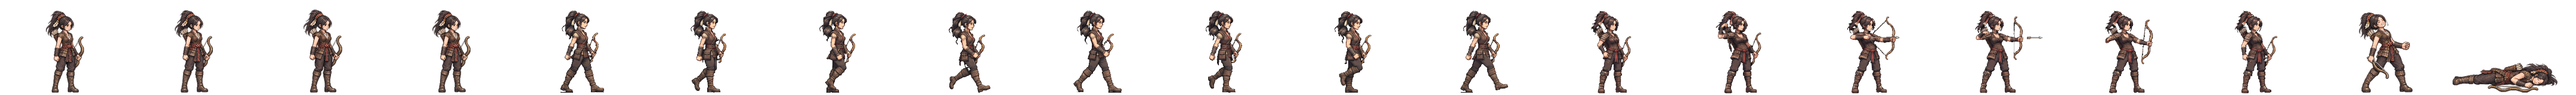
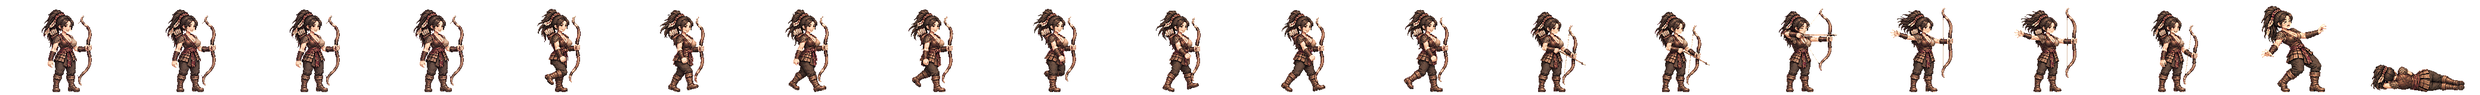
가락 다나 새 전투 띠를 게임에 넣음(서기·걷기·활 쏘기 네 칸·쓰러짐·깃털 머리 넘기기)
띠 검사 합격 · 활 길이 서기와 같음 · 활 끝 칸 키 137 ↔ 서기 138 · 쓰러짐 첫 칸 145 로 조금 큼

Claude-Session: https://claude.ai/code/session_01TRiuN7s6aDfSnaHxrkctmU

diff --git a/src/realm/data/spritePx.ts b/src/realm/data/spritePx.ts
@@ -1,3 +1,3 @@
 /** public/realm/anim-px/manifest.json 의 사본 — tools/sprite-normalize.mjs 가 만든다 (손으로 고치지 말 것). 칸 [가로, 세로] · feet = 발 줄(칸 위에서 y) · bodyPx = 서 있는 몸 키 */
 import { expandManifest } from './sprite-manifest.ts'
-export const SPRITE_PX: Readonly<Record<string, { readonly cell: readonly [number, number]; readonly feet: number; readonly bodyPx: number; readonly kind: 'general' | 'soldier' | 'folk' | 'crowd'; readonly cells: number }>> = expandManifest<{ readonly cell: readonly [number, number]; readonly feet: number; readonly bodyPx: number; readonly kind: 'general' | 'soldier' | 'folk' | 'crowd'; readonly cells: number }>([{"cell":[166,128],"feet":126,"bodyPx":124,"kind":"soldier","cells":20},{"cell":[116,128],"feet":126,"bodyPx":117,"kind":"soldier","cells":20},{"cell":[127,128],"feet":126,"bodyPx":116,"kind":"soldier","cells":20},{"cell":[269,128],"feet":126,"bodyPx":126,"kind":"soldier","cells":20},{"cell":[503,128],"feet":126,"bodyPx":127,"kind":"soldier","cells":20},{"cell":[614,128],"feet":126,"bodyPx":126,"kind":"soldier","cells":20},{"cell":[200,160],"feet":156,"bodyPx":138,"kind":"general","cells":20},{"cell":[208,160],"feet":155,"bodyPx":138,"kind":"general","cells":20},{"cell":[208,160],"feet":154,"bodyPx":138,"kind":"general","cells":20},{"cell":[304,160],"feet":155,"bodyPx":135,"kind":"general","cells":20},{"cell":[224,160],"feet":156,"bodyPx":139,"kind":"general","cells":20},{"cell":[184,160],"feet":156,"bodyPx":138,"kind":"general","cells":20},{"cell":[208,160],"feet":154,"bodyPx":136,"kind":"general","cells":20},{"cell":[240,160],"feet":156,"bodyPx":138,"kind":"general","cells":20},{"cell":[232,160],"feet":156,"bodyPx":138,"kind":"general","cells":20},{"cell":[208,160],"feet":156,"bodyPx":138,"kind":"general","cells":20},{"cell":[168,160],"feet":156,"bodyPx":138,"kind":"general","cells":20},{"cell":[192,160],"feet":156,"bodyPx":138,"kind":"general","cells":20},{"cell":[168,160],"feet":156,"bodyPx":124,"kind":"general","cells":20},{"cell":[216,160],"feet":156,"bodyPx":130,"kind":"general","cells":20},{"cell":[200,160],"feet":156,"bodyPx":116,"kind":"general","cells":20},{"cell":[200,160],"feet":156,"bodyPx":135,"kind":"general","cells":20},{"cell":[280,160],"feet":156,"bodyPx":138,"kind":"general","cells":20},{"cell":[232,160],"feet":155,"bodyPx":138,"kind":"general","cells":20},{"cell":[232,160],"feet":156,"bodyPx":134,"kind":"general","cells":20},{"cell":[144,160],"feet":156,"bodyPx":70,"kind":"general","cells":20},{"cell":[208,160],"feet":156,"bodyPx":70,"kind":"general","cells":20},{"cell":[192,160],"feet":156,"bodyPx":70,"kind":"general","cells":20},{"cell":[240,160],"feet":155,"bodyPx":138,"kind":"general","cells":20},{"cell":[160,160],"feet":156,"bodyPx":135,"kind":"general","cells":20},{"cell":[192,160],"feet":156,"bodyPx":128,"kind":"general","cells":20},{"cell":[224,160],"feet":155,"bodyPx":138,"kind":"general","cells":20},{"cell":[232,160],"feet":156,"bodyPx":139,"kind":"general","cells":20},{"cell":[216,160],"feet":156,"bodyPx":138,"kind":"general","cells":20},{"cell":[208,160],"feet":156,"bodyPx":134,"kind":"general","cells":20},{"cell":[176,160],"feet":156,"bodyPx":130,"kind":"general","cells":20},{"cell":[248,160],"feet":156,"bodyPx":138,"kind":"general","cells":20},{"cell":[248,160],"feet":155,"bodyPx":138,"kind":"general","cells":20},{"cell":[192,160],"feet":155,"bodyPx":138,"kind":"general","cells":20},{"cell":[192,160],"feet":156,"bodyPx":124,"kind":"general","cells":20},{"cell":[208,160],"feet":154,"bodyPx":131,"kind":"general","cells":20},{"cell":[256,160],"feet":156,"bodyPx":138,"kind":"general","cells":20},{"cell":[232,160],"feet":156,"bodyPx":73,"kind":"general","cells":20},{"cell":[256,160],"feet":155,"bodyPx":138,"kind":"general","cells":20},{"cell":[264,160],"feet":156,"bodyPx":138,"kind":"general","cells":20},{"cell":[224,160],"feet":156,"bodyPx":138,"kind":"general","cells":20},{"cell":[224,160],"feet":156,"bodyPx":128,"kind":"general","cells":20},{"cell":[176,160],"feet":156,"bodyPx":129,"kind":"general","cells":20},{"cell":[208,160],"feet":154,"bodyPx":139,"kind":"general","cells":20},{"cell":[208,160],"feet":156,"bodyPx":132,"kind":"general","cells":20},{"cell":[216,160],"feet":155,"bodyPx":138,"kind":"general","cells":20},{"cell":[184,160],"feet":156,"bodyPx":122,"kind":"general","cells":20},{"cell":[176,160],"feet":156,"bodyPx":138,"kind":"general","cells":20},{"cell":[280,160],"feet":155,"bodyPx":133,"kind":"general","cells":20},{"cell":[176,160],"feet":156,"bodyPx":70,"kind":"general","cells":20},{"cell":[186,128],"feet":126,"bodyPx":127,"kind":"soldier","cells":20},{"cell":[298,128],"feet":126,"bodyPx":126,"kind":"soldier","cells":20},{"cell":[82,128],"feet":126,"bodyPx":114,"kind":"folk","cells":8},{"cell":[134,128],"feet":126,"bodyPx":119,"kind":"soldier","cells":20},{"cell":[380,128],"feet":126,"bodyPx":124,"kind":"soldier","cells":20},{"cell":[114,128],"feet":126,"bodyPx":115,"kind":"soldier","cells":20},{"cell":[122,128],"feet":126,"bodyPx":114,"kind":"soldier","cells":20},{"cell":[254,128],"feet":126,"bodyPx":128,"kind":"soldier","cells":20},{"cell":[438,128],"feet":126,"bodyPx":126,"kind":"soldier","cells":20},{"cell":[88,128],"feet":126,"bodyPx":113,"kind":"folk","cells":8},{"cell":[100,128],"feet":126,"bodyPx":115,"kind":"folk","cells":8},{"cell":[108,128],"feet":126,"bodyPx":115,"kind":"folk","cells":8},{"cell":[63,128],"feet":126,"bodyPx":113,"kind":"folk","cells":8},{"cell":[69,96],"feet":96,"bodyPx":96,"kind":"crowd","cells":1},{"cell":[54,96],"feet":96,"bodyPx":96,"kind":"crowd","cells":1},{"cell":[47,96],"feet":96,"bodyPx":96,"kind":"crowd","cells":1},{"cell":[49,96],"feet":96,"bodyPx":96,"kind":"crowd","cells":1},{"cell":[57,96],"feet":96,"bodyPx":96,"kind":"crowd","cells":1},{"cell":[55,96],"feet":96,"bodyPx":96,"kind":"crowd","cells":1},{"cell":[45,96],"feet":96,"bodyPx":96,"kind":"crowd","cells":1},{"cell":[53,96],"feet":96,"bodyPx":96,"kind":"crowd","cells":1},{"cell":[64,96],"feet":96,"bodyPx":96,"kind":"crowd","cells":1},{"cell":[184,160],"feet":156,"bodyPx":124,"kind":"general","cells":20},{"cell":[184,160],"feet":156,"bodyPx":134,"kind":"general","cells":20},{"cell":[224,160],"feet":156,"bodyPx":133,"kind":"general","cells":20},{"cell":[192,160],"feet":156,"bodyPx":135,"kind":"general","cells":20},{"cell":[184,160],"feet":156,"bodyPx":137,"kind":"general","cells":20},{"cell":[216,160],"feet":156,"bodyPx":134,"kind":"general","cells":20},{"cell":[216,160],"feet":156,"bodyPx":132,"kind":"general","cells":20},{"cell":[288,160],"feet":156,"bodyPx":138,"kind":"general","cells":20},{"cell":[192,160],"feet":156,"bodyPx":118,"kind":"general","cells":20},{"cell":[192,160],"feet":156,"bodyPx":134,"kind":"general","cells":20},{"cell":[192,160],"feet":157,"bodyPx":139,"kind":"general","cells":20},{"cell":[184,160],"feet":156,"bodyPx":128,"kind":"general","cells":20},{"cell":[240,160],"feet":156,"bodyPx":128,"kind":"general","cells":20},{"cell":[184,160],"feet":156,"bodyPx":132,"kind":"general","cells":20},{"cell":[208,160],"feet":156,"bodyPx":123,"kind":"general","cells":20},{"cell":[208,160],"feet":154,"bodyPx":137,"kind":"general","cells":20},{"cell":[176,160],"feet":156,"bodyPx":116,"kind":"general","cells":20},{"cell":[272,160],"feet":156,"bodyPx":138,"kind":"general","cells":20},{"cell":[176,160],"feet":156,"bodyPx":122,"kind":"general","cells":20},{"cell":[232,160],"feet":156,"bodyPx":127,"kind":"general","cells":20},{"cell":[176,160],"feet":156,"bodyPx":137,"kind":"general","cells":20},{"cell":[184,160],"feet":156,"bodyPx":133,"kind":"general","cells":20}],[["axe",0],["bandit-chief",1],["bandit-club",2],["boat",3],["bow",4],["crossbow",5],["gen-adogan",6],["gen-alpyeong",7],["gen-ara",8],["gen-areum",8],["gen-aryeong",9],["gen-bakdal",6],["gen-baram",10],["gen-bdanbi",11],["gen-beom",12],["gen-beombal",11],["gen-beomi",13],["gen-bira",14],["gen-biryu",15],["gen-budeul",16],["gen-byeol",17],["gen-daemusin",18],["gen-daeso",19],["gen-dallae2",11],["gen-dalli",11],["gen-damul",20],["gen-danbi",15],["gen-dangung",17],["gen-darae",21],["gen-dokmudeom",7],["gen-duman",22],["gen-eomni",23],["gen-eureum",24],["gen-g-bow",25],["gen-g-spear",26],["gen-g-sword",27],["gen-gaennae",6],["gen-gamsil",28],["gen-gaon",29],["gen-geota",15],["gen-geumbawi",11],["gen-geumha",30],["gen-goeun",15],["gen-gom",31],["gen-gomok",15],["gen-gureum",28],["gen-guryema",17],["gen-gwaeyu",14],["gen-haebi",8],["gen-haedal",6],["gen-haesol",32],["gen-halla",7],["gen-heo",8],["gen-hneoul",11],["gen-hogong",33],["gen-hojin",15],["gen-horselord",34],["gen-hwalmi",35],["gen-hyeokgeose",17],["gen-hyeopbo",6],["gen-irang",15],["gen-jibaekho",36],["gen-jinha",37],["gen-jita",38],["gen-jumong",39],["gen-keundol",7],["gen-maehwa",40],["gen-maenun",17],["gen-malgalgi",41],["gen-mari",13],["gen-maro",36],["gen-maryeo",15],["gen-mdallae",32],["gen-mir",6],["gen-mount",42],["gen-mulbeom",43],["gen-mulsae",33],["gen-musoe",33],["gen-noeul",8],["gen-nuri",44],["gen-ocheongan",45],["gen-odi",8],["gen-odogan",6],["gen-ogan",17],["gen-oi",46],["gen-olddaeso",24],["gen-onjo",47],["gen-pidogan",15],["gen-sagong",48],["gen-sdallae",6],["gen-sincheongan",33],["gen-singwigan",33],["gen-sinneoul",8],["gen-sobeol",23],["gen-soebi",6],["gen-soebo",49],["gen-soenun",36],["gen-sogeumbi",50],["gen-songbi",45],["gen-songyang",51],["gen-sori",52],["gen-soseono",53],["gen-suro",17],["gen-tahae",6],["gen-tneoul",8],["gen-w-bow",25],["gen-w-spear",54],["gen-waechief",15],["gen-wan",33],["gen-yeodogan",15],["gen-yucheongan",15],["gen-yusugan",36],["horse",55],["marine",56],["migrant",57],["militia",58],["pike",59],["pirate-captain",60],["pirate-sword",61],["shield",62],["spear",63],["villager-builder",64],["villager-farmer",65],["villager-porter",66],["villager-woman",67],["crowd-b1",68],["crowd-b2",69],["crowd-b3",70],["crowd-b4",71],["crowd-b5",72],["crowd-b6",73],["crowd-f1",68],["crowd-f2",73],["crowd-f3",74],["crowd-f4",75],["crowd-f5",68],["crowd-f6",76],["gen-dalbit",15],["gen-base-g-07-drunk-warrior",17],["gen-base-g-40-anya-adan",15],["gen-base-w-13-young-archer",8],["gen-base-g-03-sea-trader",13],["gen-base-w-10-pirate-captain",48],["gen-base-w-64-miri-dallae",48],["gen-base-g-41-goja-bau",13],["gen-base-g-42-dokro-garam",44],["gen-base-g-09-farmer-conscript",33],["gen-base-w-02-goguryeo-lady",33],["gen-base-w-17-mahan-pearl-diver",8],["gen-base-g-17-saro-isageum",49],["gen-base-g-18-daegaya-king",77],["gen-base-g-35-dabeol-dalgu",15],["gen-base-g-19-sabeol-veteran",33],["gen-base-w-23-usisan-whale-queen",8],["gen-base-g-36-gammun-gamdol",45],["gen-base-g-20-samul-sea-lord",41],["gen-base-g-37-eumjeup-jeup",11],["gen-base-g-38-chopal-palmae",17],["gen-base-w-75-daegaya-soemoe",17],["gen-base-g-45-dabeol-deulgae",11],["gen-base-g-04-jinhan-giant",15],["gen-base-g-08-veteran",15],["gen-base-w-18-jinhan-salt-widow",15],["gen-base-w-12-court-dancer",78],["gen-base-w-83-gyeonji-beodeul",79],["gen-base-w-05-baekje-queen",80],["gen-base-w-21-baekje-court-dancer",11],["gen-base-g-01-master-smith",81],["gen-base-g-93-jomun-solgae",35],["gen-base-g-57-bihwa-neup",13],["gen-base-w-72-eumjeup-beol",8],["gen-base-w-102-garak-dana",33],["gen-base-g-68-baekje-onnuri",15],["gen-base-w-27-mokji-jinha",6],["gen-base-g-22-ungcheon-gomnae",6],["gen-base-g-23-sangdang-soedal",15],["gen-base-g-24-wansan-onsan",6],["gen-base-g-25-balla-keunmoe",33],["gen-base-g-61-heomcheuk-bawi",33],["gen-base-g-88-wander-soeul",45],["gen-base-w-14-feast-spy",6],["gen-base-g-12-silla-youth",82],["gen-base-w-08-mahan-warrior",8],["gen-base-g-62-beonye-hanul",13],["gen-base-g-63-heomcheuk-beogeum",15],["gen-base-g-84-wander-seoneul",15],["gen-base-w-50-siljik-mulga",33],["gen-base-g-46-uga-nureongso",33],["gen-base-w-80-usan-gangchi",13],["gen-base-g-47-guga-sanyanggae",33],["gen-base-w-76-gampyeong-baetsagong",8],["gen-base-g-05-mahan-chieftain",83],["gen-base-g-58-usan-uhae",15],["gen-base-g-27-maek-maekdol",15],["gen-base-w-53-hwanna-gabi",16],["gen-base-w-29-golpo-janmul",36],["gen-base-g-53-baekje-haeru",6],["gen-base-w-71-yeonna-neoul",13],["gen-base-w-79-yangmaek-solmae",33],["gen-base-w-34-chopal-deulme",8],["gen-base-g-44-maga-malgup",84],["gen-base-w-31-dabeol-dalbit",48],["gen-base-g-51-biryuna-mulgyeol",45],["gen-base-g-48-gwanna-musoe",15],["gen-base-g-32-uga-sodu",14],["gen-base-g-49-goguryeo-sona",85],["gen-base-g-30-gwanna-soemoe",45],["gen-base-g-52-tamna-oreum",11],["gen-base-g-29-yeonna-myeongsol",39],["gen-base-w-56-dongokjeo-sogeum",86],["gen-base-g-54-mokji-mahan",14],["gen-base-g-33-jeoga-metdol",17],["gen-base-w-36-baekje-maena",17],["gen-base-w-38-sangdang-bulmae",6],["gen-base-w-39-gosaburi-galmae",87],["gen-base-w-40-mujin-munui",49],["gen-base-w-41-hwanna-beodeul",88],["gen-base-w-43-uga-nuri",41],["gen-base-w-45-tamna-oreumbi",11],["gen-base-g-60-golbeol-golgae",11],["gen-base-g-61-apdok-ap",33],["gen-base-g-62-gammun-gamnamu",6],["gen-base-g-63-chopal-yeoul",36],["gen-base-g-64-michuhol-sogeumkkun",13],["gen-base-g-65-sangdang-soemangchi",45],["gen-base-g-66-geonma-malbalgup",89],["gen-base-g-67-gosaburi-buri",90],["gen-base-g-68-mujin-bitgoeul",11],["gen-base-g-69-goryong-yong",45],["gen-base-g-70-siljik-pado",13],["gen-base-w-81-byeokjin-byeolbit",14],["gen-base-w-46-geonma-maru",36],["gen-base-w-48-mujin-mudeung",13],["gen-base-g-26-gampyeong-gaetbeol",14],["gen-base-g-60-eupcha-hangyeol",91],["gen-base-g-15-shaman-man",33],["gen-base-g-85-wander-ure",36],["gen-base-g-43-hwanna-amnok",15],["gen-base-g-50-bullae-gwaha",80],["gen-base-g-55-saro-bakdal",15],["gen-base-g-56-haseulla-gwahama",6],["gen-base-w-06-buyeo-huntress",92],["gen-base-w-22-dongye-tiger-huntress",8],["gen-base-w-25-bihwa-priestess",33],["gen-base-w-24-apdok-queen",11],["gen-base-w-61-iseo-sinae",15],["gen-base-w-26-iseo-tomboy-general",8],["gen-base-g-59-yangmaek-maekson",93],["gen-aw1-haebi",45],["gen-aw1-soseono",94],["gen-aw1-gamsil",11],["gen-aw1-mir",52],["gen-aw1-dangung",6],["gen-aw1-ara",45],["gen-aw1-jumong",95],["gen-aw1-onjo",96],["gen-aw1-base-w-83-gyeonji-beodeul",17],["gen-aw1-heo",44],["gen-aw1-base-g-38-chopal-palmae",6],["gen-aw1-base-w-25-bihwa-priestess",78],["gen-aw1-sori",16],["gen-aw1-gomok",6],["gen-aw1-irang",17],["gen-aw1-budeul",16],["gen-aw1-gom",13],["gen-aw1-sdallae",6],["gen-aw1-base-w-13-young-archer",6],["gen-aw1-base-w-36-baekje-maena",97],["gen-aw1-base-g-09-farmer-conscript",44],["gen-aw1-base-w-02-goguryeo-lady",98],["gen-aw1-haedal",11],["gen-aw1-hogong",6],["gen-aw1-maehwa",52],["gen-aw1-base-w-06-buyeo-huntress",14],["gen-aw1-base-w-08-mahan-warrior",45],["gen-aw1-base-w-29-golpo-janmul",45],["gen-aw1-base-w-31-dabeol-dalbit",17],["gen-aw1-base-w-38-sangdang-bulmae",16],["gen-aw1-bira",33],["gen-aw1-base-w-53-hwanna-gabi",16],["gen-aw1-base-w-56-dongokjeo-sogeum",52],["gen-aw1-base-w-72-eumjeup-beol",17],["gen-aw1-bdanbi",16],["gen-aw1-beom",11],["gen-aw1-beombal",11],["gen-aw1-byeol",17],["gen-aw1-dalli",52],["gen-aw1-malgalgi",36],["gen-aw1-sincheongan",33]])
+export const SPRITE_PX: Readonly<Record<string, { readonly cell: readonly [number, number]; readonly feet: number; readonly bodyPx: number; readonly kind: 'general' | 'soldier' | 'folk' | 'crowd'; readonly cells: number }>> = expandManifest<{ readonly cell: readonly [number, number]; readonly feet: number; readonly bodyPx: number; readonly kind: 'general' | 'soldier' | 'folk' | 'crowd'; readonly cells: number }>([{"cell":[166,128],"feet":126,"bodyPx":124,"kind":"soldier","cells":20},{"cell":[116,128],"feet":126,"bodyPx":117,"kind":"soldier","cells":20},{"cell":[127,128],"feet":126,"bodyPx":116,"kind":"soldier","cells":20},{"cell":[269,128],"feet":126,"bodyPx":126,"kind":"soldier","cells":20},{"cell":[503,128],"feet":126,"bodyPx":127,"kind":"soldier","cells":20},{"cell":[614,128],"feet":126,"bodyPx":126,"kind":"soldier","cells":20},{"cell":[200,160],"feet":156,"bodyPx":138,"kind":"general","cells":20},{"cell":[208,160],"feet":155,"bodyPx":138,"kind":"general","cells":20},{"cell":[208,160],"feet":154,"bodyPx":138,"kind":"general","cells":20},{"cell":[304,160],"feet":155,"bodyPx":135,"kind":"general","cells":20},{"cell":[224,160],"feet":156,"bodyPx":139,"kind":"general","cells":20},{"cell":[184,160],"feet":156,"bodyPx":138,"kind":"general","cells":20},{"cell":[208,160],"feet":154,"bodyPx":136,"kind":"general","cells":20},{"cell":[240,160],"feet":156,"bodyPx":138,"kind":"general","cells":20},{"cell":[232,160],"feet":156,"bodyPx":138,"kind":"general","cells":20},{"cell":[208,160],"feet":156,"bodyPx":138,"kind":"general","cells":20},{"cell":[168,160],"feet":156,"bodyPx":138,"kind":"general","cells":20},{"cell":[192,160],"feet":156,"bodyPx":138,"kind":"general","cells":20},{"cell":[168,160],"feet":156,"bodyPx":124,"kind":"general","cells":20},{"cell":[216,160],"feet":156,"bodyPx":130,"kind":"general","cells":20},{"cell":[200,160],"feet":156,"bodyPx":116,"kind":"general","cells":20},{"cell":[200,160],"feet":156,"bodyPx":135,"kind":"general","cells":20},{"cell":[280,160],"feet":156,"bodyPx":138,"kind":"general","cells":20},{"cell":[232,160],"feet":155,"bodyPx":138,"kind":"general","cells":20},{"cell":[232,160],"feet":156,"bodyPx":134,"kind":"general","cells":20},{"cell":[144,160],"feet":156,"bodyPx":70,"kind":"general","cells":20},{"cell":[208,160],"feet":156,"bodyPx":70,"kind":"general","cells":20},{"cell":[192,160],"feet":156,"bodyPx":70,"kind":"general","cells":20},{"cell":[240,160],"feet":155,"bodyPx":138,"kind":"general","cells":20},{"cell":[160,160],"feet":156,"bodyPx":135,"kind":"general","cells":20},{"cell":[192,160],"feet":156,"bodyPx":128,"kind":"general","cells":20},{"cell":[224,160],"feet":155,"bodyPx":138,"kind":"general","cells":20},{"cell":[232,160],"feet":156,"bodyPx":139,"kind":"general","cells":20},{"cell":[216,160],"feet":156,"bodyPx":138,"kind":"general","cells":20},{"cell":[208,160],"feet":156,"bodyPx":134,"kind":"general","cells":20},{"cell":[176,160],"feet":156,"bodyPx":130,"kind":"general","cells":20},{"cell":[248,160],"feet":156,"bodyPx":138,"kind":"general","cells":20},{"cell":[248,160],"feet":155,"bodyPx":138,"kind":"general","cells":20},{"cell":[192,160],"feet":155,"bodyPx":138,"kind":"general","cells":20},{"cell":[192,160],"feet":156,"bodyPx":124,"kind":"general","cells":20},{"cell":[208,160],"feet":154,"bodyPx":131,"kind":"general","cells":20},{"cell":[256,160],"feet":156,"bodyPx":138,"kind":"general","cells":20},{"cell":[232,160],"feet":156,"bodyPx":73,"kind":"general","cells":20},{"cell":[256,160],"feet":155,"bodyPx":138,"kind":"general","cells":20},{"cell":[264,160],"feet":156,"bodyPx":138,"kind":"general","cells":20},{"cell":[224,160],"feet":156,"bodyPx":138,"kind":"general","cells":20},{"cell":[224,160],"feet":156,"bodyPx":128,"kind":"general","cells":20},{"cell":[176,160],"feet":156,"bodyPx":129,"kind":"general","cells":20},{"cell":[208,160],"feet":154,"bodyPx":139,"kind":"general","cells":20},{"cell":[208,160],"feet":156,"bodyPx":132,"kind":"general","cells":20},{"cell":[216,160],"feet":155,"bodyPx":138,"kind":"general","cells":20},{"cell":[184,160],"feet":156,"bodyPx":122,"kind":"general","cells":20},{"cell":[176,160],"feet":156,"bodyPx":138,"kind":"general","cells":20},{"cell":[280,160],"feet":155,"bodyPx":133,"kind":"general","cells":20},{"cell":[176,160],"feet":156,"bodyPx":70,"kind":"general","cells":20},{"cell":[186,128],"feet":126,"bodyPx":127,"kind":"soldier","cells":20},{"cell":[298,128],"feet":126,"bodyPx":126,"kind":"soldier","cells":20},{"cell":[82,128],"feet":126,"bodyPx":114,"kind":"folk","cells":8},{"cell":[134,128],"feet":126,"bodyPx":119,"kind":"soldier","cells":20},{"cell":[380,128],"feet":126,"bodyPx":124,"kind":"soldier","cells":20},{"cell":[114,128],"feet":126,"bodyPx":115,"kind":"soldier","cells":20},{"cell":[122,128],"feet":126,"bodyPx":114,"kind":"soldier","cells":20},{"cell":[254,128],"feet":126,"bodyPx":128,"kind":"soldier","cells":20},{"cell":[438,128],"feet":126,"bodyPx":126,"kind":"soldier","cells":20},{"cell":[88,128],"feet":126,"bodyPx":113,"kind":"folk","cells":8},{"cell":[100,128],"feet":126,"bodyPx":115,"kind":"folk","cells":8},{"cell":[108,128],"feet":126,"bodyPx":115,"kind":"folk","cells":8},{"cell":[63,128],"feet":126,"bodyPx":113,"kind":"folk","cells":8},{"cell":[69,96],"feet":96,"bodyPx":96,"kind":"crowd","cells":1},{"cell":[54,96],"feet":96,"bodyPx":96,"kind":"crowd","cells":1},{"cell":[47,96],"feet":96,"bodyPx":96,"kind":"crowd","cells":1},{"cell":[49,96],"feet":96,"bodyPx":96,"kind":"crowd","cells":1},{"cell":[57,96],"feet":96,"bodyPx":96,"kind":"crowd","cells":1},{"cell":[55,96],"feet":96,"bodyPx":96,"kind":"crowd","cells":1},{"cell":[45,96],"feet":96,"bodyPx":96,"kind":"crowd","cells":1},{"cell":[53,96],"feet":96,"bodyPx":96,"kind":"crowd","cells":1},{"cell":[64,96],"feet":96,"bodyPx":96,"kind":"crowd","cells":1},{"cell":[184,160],"feet":156,"bodyPx":124,"kind":"general","cells":20},{"cell":[184,160],"feet":156,"bodyPx":134,"kind":"general","cells":20},{"cell":[224,160],"feet":156,"bodyPx":133,"kind":"general","cells":20},{"cell":[192,160],"feet":156,"bodyPx":135,"kind":"general","cells":20},{"cell":[184,160],"feet":156,"bodyPx":137,"kind":"general","cells":20},{"cell":[216,160],"feet":156,"bodyPx":134,"kind":"general","cells":20},{"cell":[216,160],"feet":156,"bodyPx":132,"kind":"general","cells":20},{"cell":[288,160],"feet":156,"bodyPx":138,"kind":"general","cells":20},{"cell":[192,160],"feet":156,"bodyPx":118,"kind":"general","cells":20},{"cell":[192,160],"feet":156,"bodyPx":134,"kind":"general","cells":20},{"cell":[192,160],"feet":157,"bodyPx":139,"kind":"general","cells":20},{"cell":[184,160],"feet":156,"bodyPx":128,"kind":"general","cells":20},{"cell":[240,160],"feet":156,"bodyPx":128,"kind":"general","cells":20},{"cell":[184,160],"feet":156,"bodyPx":132,"kind":"general","cells":20},{"cell":[208,160],"feet":156,"bodyPx":123,"kind":"general","cells":20},{"cell":[208,160],"feet":154,"bodyPx":137,"kind":"general","cells":20},{"cell":[176,160],"feet":156,"bodyPx":116,"kind":"general","cells":20},{"cell":[272,160],"feet":156,"bodyPx":138,"kind":"general","cells":20},{"cell":[176,160],"feet":156,"bodyPx":122,"kind":"general","cells":20},{"cell":[232,160],"feet":156,"bodyPx":127,"kind":"general","cells":20},{"cell":[176,160],"feet":156,"bodyPx":137,"kind":"general","cells":20},{"cell":[184,160],"feet":156,"bodyPx":133,"kind":"general","cells":20}],[["axe",0],["bandit-chief",1],["bandit-club",2],["boat",3],["bow",4],["crossbow",5],["gen-adogan",6],["gen-alpyeong",7],["gen-ara",8],["gen-areum",8],["gen-aryeong",9],["gen-bakdal",6],["gen-baram",10],["gen-bdanbi",11],["gen-beom",12],["gen-beombal",11],["gen-beomi",13],["gen-bira",14],["gen-biryu",15],["gen-budeul",16],["gen-byeol",17],["gen-daemusin",18],["gen-daeso",19],["gen-dallae2",11],["gen-dalli",11],["gen-damul",20],["gen-danbi",15],["gen-dangung",17],["gen-darae",21],["gen-dokmudeom",7],["gen-duman",22],["gen-eomni",23],["gen-eureum",24],["gen-g-bow",25],["gen-g-spear",26],["gen-g-sword",27],["gen-gaennae",6],["gen-gamsil",28],["gen-gaon",29],["gen-geota",15],["gen-geumbawi",11],["gen-geumha",30],["gen-goeun",15],["gen-gom",31],["gen-gomok",15],["gen-gureum",28],["gen-guryema",17],["gen-gwaeyu",14],["gen-haebi",8],["gen-haedal",6],["gen-haesol",32],["gen-halla",7],["gen-heo",8],["gen-hneoul",11],["gen-hogong",33],["gen-hojin",15],["gen-horselord",34],["gen-hwalmi",35],["gen-hyeokgeose",17],["gen-hyeopbo",6],["gen-irang",15],["gen-jibaekho",36],["gen-jinha",37],["gen-jita",38],["gen-jumong",39],["gen-keundol",7],["gen-maehwa",40],["gen-maenun",17],["gen-malgalgi",41],["gen-mari",13],["gen-maro",36],["gen-maryeo",15],["gen-mdallae",32],["gen-mir",6],["gen-mount",42],["gen-mulbeom",43],["gen-mulsae",33],["gen-musoe",33],["gen-noeul",8],["gen-nuri",44],["gen-ocheongan",45],["gen-odi",8],["gen-odogan",6],["gen-ogan",17],["gen-oi",46],["gen-olddaeso",24],["gen-onjo",47],["gen-pidogan",15],["gen-sagong",48],["gen-sdallae",6],["gen-sincheongan",33],["gen-singwigan",33],["gen-sinneoul",8],["gen-sobeol",23],["gen-soebi",6],["gen-soebo",49],["gen-soenun",36],["gen-sogeumbi",50],["gen-songbi",45],["gen-songyang",51],["gen-sori",52],["gen-soseono",53],["gen-suro",17],["gen-tahae",6],["gen-tneoul",8],["gen-w-bow",25],["gen-w-spear",54],["gen-waechief",15],["gen-wan",33],["gen-yeodogan",15],["gen-yucheongan",15],["gen-yusugan",36],["horse",55],["marine",56],["migrant",57],["militia",58],["pike",59],["pirate-captain",60],["pirate-sword",61],["shield",62],["spear",63],["villager-builder",64],["villager-farmer",65],["villager-porter",66],["villager-woman",67],["crowd-b1",68],["crowd-b2",69],["crowd-b3",70],["crowd-b4",71],["crowd-b5",72],["crowd-b6",73],["crowd-f1",68],["crowd-f2",73],["crowd-f3",74],["crowd-f4",75],["crowd-f5",68],["crowd-f6",76],["gen-dalbit",15],["gen-base-g-07-drunk-warrior",17],["gen-base-g-40-anya-adan",15],["gen-base-w-13-young-archer",8],["gen-base-g-03-sea-trader",13],["gen-base-w-10-pirate-captain",48],["gen-base-w-64-miri-dallae",48],["gen-base-g-41-goja-bau",13],["gen-base-g-42-dokro-garam",44],["gen-base-g-09-farmer-conscript",33],["gen-base-w-02-goguryeo-lady",33],["gen-base-w-17-mahan-pearl-diver",8],["gen-base-g-17-saro-isageum",49],["gen-base-g-18-daegaya-king",77],["gen-base-g-35-dabeol-dalgu",15],["gen-base-g-19-sabeol-veteran",33],["gen-base-w-23-usisan-whale-queen",8],["gen-base-g-36-gammun-gamdol",45],["gen-base-g-20-samul-sea-lord",41],["gen-base-g-37-eumjeup-jeup",11],["gen-base-g-38-chopal-palmae",17],["gen-base-w-75-daegaya-soemoe",17],["gen-base-g-45-dabeol-deulgae",11],["gen-base-g-04-jinhan-giant",15],["gen-base-g-08-veteran",15],["gen-base-w-18-jinhan-salt-widow",15],["gen-base-w-12-court-dancer",78],["gen-base-w-83-gyeonji-beodeul",79],["gen-base-w-05-baekje-queen",80],["gen-base-w-21-baekje-court-dancer",11],["gen-base-g-01-master-smith",81],["gen-base-g-93-jomun-solgae",35],["gen-base-g-57-bihwa-neup",13],["gen-base-w-72-eumjeup-beol",8],["gen-base-w-102-garak-dana",48],["gen-base-g-68-baekje-onnuri",15],["gen-base-w-27-mokji-jinha",6],["gen-base-g-22-ungcheon-gomnae",6],["gen-base-g-23-sangdang-soedal",15],["gen-base-g-24-wansan-onsan",6],["gen-base-g-25-balla-keunmoe",33],["gen-base-g-61-heomcheuk-bawi",33],["gen-base-g-88-wander-soeul",45],["gen-base-w-14-feast-spy",6],["gen-base-g-12-silla-youth",82],["gen-base-w-08-mahan-warrior",8],["gen-base-g-62-beonye-hanul",13],["gen-base-g-63-heomcheuk-beogeum",15],["gen-base-g-84-wander-seoneul",15],["gen-base-w-50-siljik-mulga",33],["gen-base-g-46-uga-nureongso",33],["gen-base-w-80-usan-gangchi",13],["gen-base-g-47-guga-sanyanggae",33],["gen-base-w-76-gampyeong-baetsagong",8],["gen-base-g-05-mahan-chieftain",83],["gen-base-g-58-usan-uhae",15],["gen-base-g-27-maek-maekdol",15],["gen-base-w-53-hwanna-gabi",16],["gen-base-w-29-golpo-janmul",36],["gen-base-g-53-baekje-haeru",6],["gen-base-w-71-yeonna-neoul",13],["gen-base-w-79-yangmaek-solmae",33],["gen-base-w-34-chopal-deulme",8],["gen-base-g-44-maga-malgup",84],["gen-base-w-31-dabeol-dalbit",48],["gen-base-g-51-biryuna-mulgyeol",45],["gen-base-g-48-gwanna-musoe",15],["gen-base-g-32-uga-sodu",14],["gen-base-g-49-goguryeo-sona",85],["gen-base-g-30-gwanna-soemoe",45],["gen-base-g-52-tamna-oreum",11],["gen-base-g-29-yeonna-myeongsol",39],["gen-base-w-56-dongokjeo-sogeum",86],["gen-base-g-54-mokji-mahan",14],["gen-base-g-33-jeoga-metdol",17],["gen-base-w-36-baekje-maena",17],["gen-base-w-38-sangdang-bulmae",6],["gen-base-w-39-gosaburi-galmae",87],["gen-base-w-40-mujin-munui",49],["gen-base-w-41-hwanna-beodeul",88],["gen-base-w-43-uga-nuri",41],["gen-base-w-45-tamna-oreumbi",11],["gen-base-g-60-golbeol-golgae",11],["gen-base-g-61-apdok-ap",33],["gen-base-g-62-gammun-gamnamu",6],["gen-base-g-63-chopal-yeoul",36],["gen-base-g-64-michuhol-sogeumkkun",13],["gen-base-g-65-sangdang-soemangchi",45],["gen-base-g-66-geonma-malbalgup",89],["gen-base-g-67-gosaburi-buri",90],["gen-base-g-68-mujin-bitgoeul",11],["gen-base-g-69-goryong-yong",45],["gen-base-g-70-siljik-pado",13],["gen-base-w-81-byeokjin-byeolbit",14],["gen-base-w-46-geonma-maru",36],["gen-base-w-48-mujin-mudeung",13],["gen-base-g-26-gampyeong-gaetbeol",14],["gen-base-g-60-eupcha-hangyeol",91],["gen-base-g-15-shaman-man",33],["gen-base-g-85-wander-ure",36],["gen-base-g-43-hwanna-amnok",15],["gen-base-g-50-bullae-gwaha",80],["gen-base-g-55-saro-bakdal",15],["gen-base-g-56-haseulla-gwahama",6],["gen-base-w-06-buyeo-huntress",92],["gen-base-w-22-dongye-tiger-huntress",8],["gen-base-w-25-bihwa-priestess",33],["gen-base-w-24-apdok-queen",11],["gen-base-w-61-iseo-sinae",15],["gen-base-w-26-iseo-tomboy-general",8],["gen-base-g-59-yangmaek-maekson",93],["gen-aw1-haebi",45],["gen-aw1-soseono",94],["gen-aw1-gamsil",11],["gen-aw1-mir",52],["gen-aw1-dangung",6],["gen-aw1-ara",45],["gen-aw1-jumong",95],["gen-aw1-onjo",96],["gen-aw1-base-w-83-gyeonji-beodeul",17],["gen-aw1-heo",44],["gen-aw1-base-g-38-chopal-palmae",6],["gen-aw1-base-w-25-bihwa-priestess",78],["gen-aw1-sori",16],["gen-aw1-gomok",6],["gen-aw1-irang",17],["gen-aw1-budeul",16],["gen-aw1-gom",13],["gen-aw1-sdallae",6],["gen-aw1-base-w-13-young-archer",6],["gen-aw1-base-w-36-baekje-maena",97],["gen-aw1-base-g-09-farmer-conscript",44],["gen-aw1-base-w-02-goguryeo-lady",98],["gen-aw1-haedal",11],["gen-aw1-hogong",6],["gen-aw1-maehwa",52],["gen-aw1-base-w-06-buyeo-huntress",14],["gen-aw1-base-w-08-mahan-warrior",45],["gen-aw1-base-w-29-golpo-janmul",45],["gen-aw1-base-w-31-dabeol-dalbit",17],["gen-aw1-base-w-38-sangdang-bulmae",16],["gen-aw1-bira",33],["gen-aw1-base-w-53-hwanna-gabi",16],["gen-aw1-base-w-56-dongokjeo-sogeum",52],["gen-aw1-base-w-72-eumjeup-beol",17],["gen-aw1-bdanbi",16],["gen-aw1-beom",11],["gen-aw1-beombal",11],["gen-aw1-byeol",17],["gen-aw1-dalli",52],["gen-aw1-malgalgi",36],["gen-aw1-sincheongan",33]])

diff --git a/src/duel/view.ts b/src/duel/view.ts
@@ -100,7 +100,7 @@ const crowdFront = [1, 2, 3, 4, 5, 6].map((i) => img(`realm/duel/crowd/b${i}.png
 const crowdReady = (set: HTMLImageElement[]): boolean => set.every((im) => im.complete && im.naturalWidth > 0)
 const pxMode = cfg.px !== false && params.get('px') !== '0'
 /** 겨루기 전용 옛 띠(duel/sprites) 대신 열전과 같은 도트 띠(anim-px)를 쓰는 장수 — 두 판에서 같은 모습 · 서기 계획·쓰러지는 칸도 같다 (11-23 범 · 매화 · 달빛 · 11-24 해비 · 아룸) */
-const PX_DUEL: ReadonlySet<string> = new Set(['beom', 'maehwa', 'base-w-31-dabeol-dalbit', 'haebi', 'areum', 'base-w-13-young-archer', 'base-w-10-pirate-captain', 'base-w-17-mahan-pearl-diver', 'base-w-06-buyeo-huntress', 'base-w-64-miri-dallae', 'ara', 'base-w-22-dongye-tiger-huntress', 'noeul', 'sagong', 'sinneoul', 'heo', 'base-w-08-mahan-warrior', 'base-w-23-usisan-whale-queen', 'base-w-26-iseo-tomboy-general', 'base-w-72-eumjeup-beol', 'tneoul', 'odi', 'base-w-76-gampyeong-baetsagong', 'base-w-34-chopal-deulme'])
+const PX_DUEL: ReadonlySet<string> = new Set(['beom', 'maehwa', 'base-w-31-dabeol-dalbit', 'haebi', 'areum', 'base-w-13-young-archer', 'base-w-10-pirate-captain', 'base-w-17-mahan-pearl-diver', 'base-w-06-buyeo-huntress', 'base-w-64-miri-dallae', 'ara', 'base-w-22-dongye-tiger-huntress', 'noeul', 'sagong', 'sinneoul', 'heo', 'base-w-08-mahan-warrior', 'base-w-23-usisan-whale-queen', 'base-w-26-iseo-tomboy-general', 'base-w-72-eumjeup-beol', 'tneoul', 'odi', 'base-w-76-gampyeong-baetsagong', 'base-w-34-chopal-deulme', 'base-w-102-garak-dana'])
 /** 띠 그림 — 기본은 anim-px(도트 규격) 먼저, 없으면 옛 띠로 (img 의 onerror 가 갈아 끼운다) */
 const strip = (s: string): HTMLImageElement => pxMode
   ? DUEL_ATLASES[s] !== undefined && !PX_DUEL.has(s) ? img(`realm/duel/sprites/gen-${s}.png`, `realm/anim-px/gen-${s}.png`)

diff --git a/src/tune/params.ts b/src/tune/params.ts
@@ -1443,6 +1443,7 @@ export const HAEBI_IDLE = {
     odi: { cells: 34, base: [0, 1], hold: 2.4, fall: [18, 20, 21, 19], quirk: [22, 23, 24, 25], quirkTimes: [.3, .32, .4, .28], attack: { cells: [26, 27, 28, 29, 30, 31, 32, 33], times: [.09, .08, .11, .05, .15, .07, .08, .12], hit: 4 }, xGeom: { h: 224, root: 92, foot: 216 } },
     'base-w-76-gampyeong-baetsagong': { cells: 34, base: [0, 1], hold: 2.4, fall: [18, 20, 21, 19], quirk: [22, 23, 24, 25], quirkTimes: [.3, .32, .4, .28], attack: { cells: [26, 27, 28, 29, 30, 31, 32, 33], times: [.09, .08, .11, .05, .15, .07, .08, .12], hit: 4 }, xGeom: { h: 224, root: 92, foot: 216 } },
     'base-w-34-chopal-deulme': { cells: 34, base: [0, 1], hold: 2.4, fall: [18, 20, 21, 19], quirk: [22, 23, 24, 25], quirkTimes: [.3, .32, .4, .28], attack: { cells: [26, 27, 28, 29, 30, 31, 32, 33], times: [.09, .08, .11, .05, .15, .07, .08, .12], hit: 4 }, xGeom: { h: 224, root: 92, foot: 216 } },
+    'base-w-102-garak-dana': { cells: 26, base: [0, 1], hold: 2.4, fall: [18, 20, 21, 19], quirk: [22, 23, 24, 25], quirkTimes: [.28, .3, .42, .25] },
   },
 } as const
 export const HAEBI_ANIM = {

diff --git a/src/raid/hero-hd.ts b/src/raid/hero-hd.ts
@@ -53,7 +53,6 @@ export const HERO_HD: Readonly<Record<string, string>> = {
   'anim-px/gen-maenun.png': 'anim-px/gen-maenun_hd.png',
   'anim-px/gen-jumong.png': 'anim-px/gen-jumong_hd.png',
   'anim-px/gen-dangung.png': 'anim-px/gen-dangung_hd.png',
-  'anim-px/gen-base-w-102-garak-dana.png': 'anim-px/gen-base-w-102-garak-dana_hd.png',
   'anim-px/gen-aw1-hogong.png': 'anim-px/gen-aw1-hogong_hd.png',
   'anim-px/gen-hogong.png': 'anim-px/gen-hogong_hd.png',
   'anim-px/gen-aw1-gomok.png': 'anim-px/gen-aw1-gomok_hd.png',

diff --git a/tools/sprite-kit/anim-harness.py b/tools/sprite-kit/anim-harness.py
@@ -55,6 +55,7 @@ HEROES = {
     'baetsa': dict(strip='gen-base-w-76-gampyeong-baetsagong', atk='thrust', atk8=True, act=True, legacy=(('a', 2), ('a', 3), ('b', 3), ('b', 4))),   # 감평 뱃사공(두 손 나무 노 · 가슴 XL)
     'odi': dict(strip='gen-odi', atk='thrust', atk8=True, act=True, legacy=(('a', 2), ('a', 3), ('b', 3), ('b', 4))),   # 조문 오디(창 · 가슴 XL)
     'deulme': dict(strip='gen-base-w-34-chopal-deulme', atk='thrust', atk8=True, act=True, legacy=(('a', 2), ('a', 3), ('b', 3), ('b', 4))),   # 초팔 들메(창 · 우람한 뼈대 · 가슴 L)
+    'dana': dict(strip='gen-base-w-102-garak-dana', atk='bow', atk8=False),   # 가락 다나(활 · 가슴 XL)
     'haebi': dict(strip='gen-haebi', atk='chop', atk8=True, act=True),   # act = 공격 여덟 칸이 넓은 동작 칸(240×224 · 뿌리 92 · 발 줄 216)
     'areum': dict(strip='gen-areum', atk='slam', atk8=True, act=True, lock='none'),   # 받은 그림 그대로(얼굴을 떠다 붙이지 않는다 — 11-24: 뭉친 얼굴이 여덟 칸에 퍼졌다) · 옛 lock='face': 메가 머리 뒤로 지나간다 — 머리 상자는 메를 자르고(「포스터」), 윗몸을 통째로 묶으면 떠다닌다(11-24 형) → 얼굴 안쪽만 묶는다
 }
